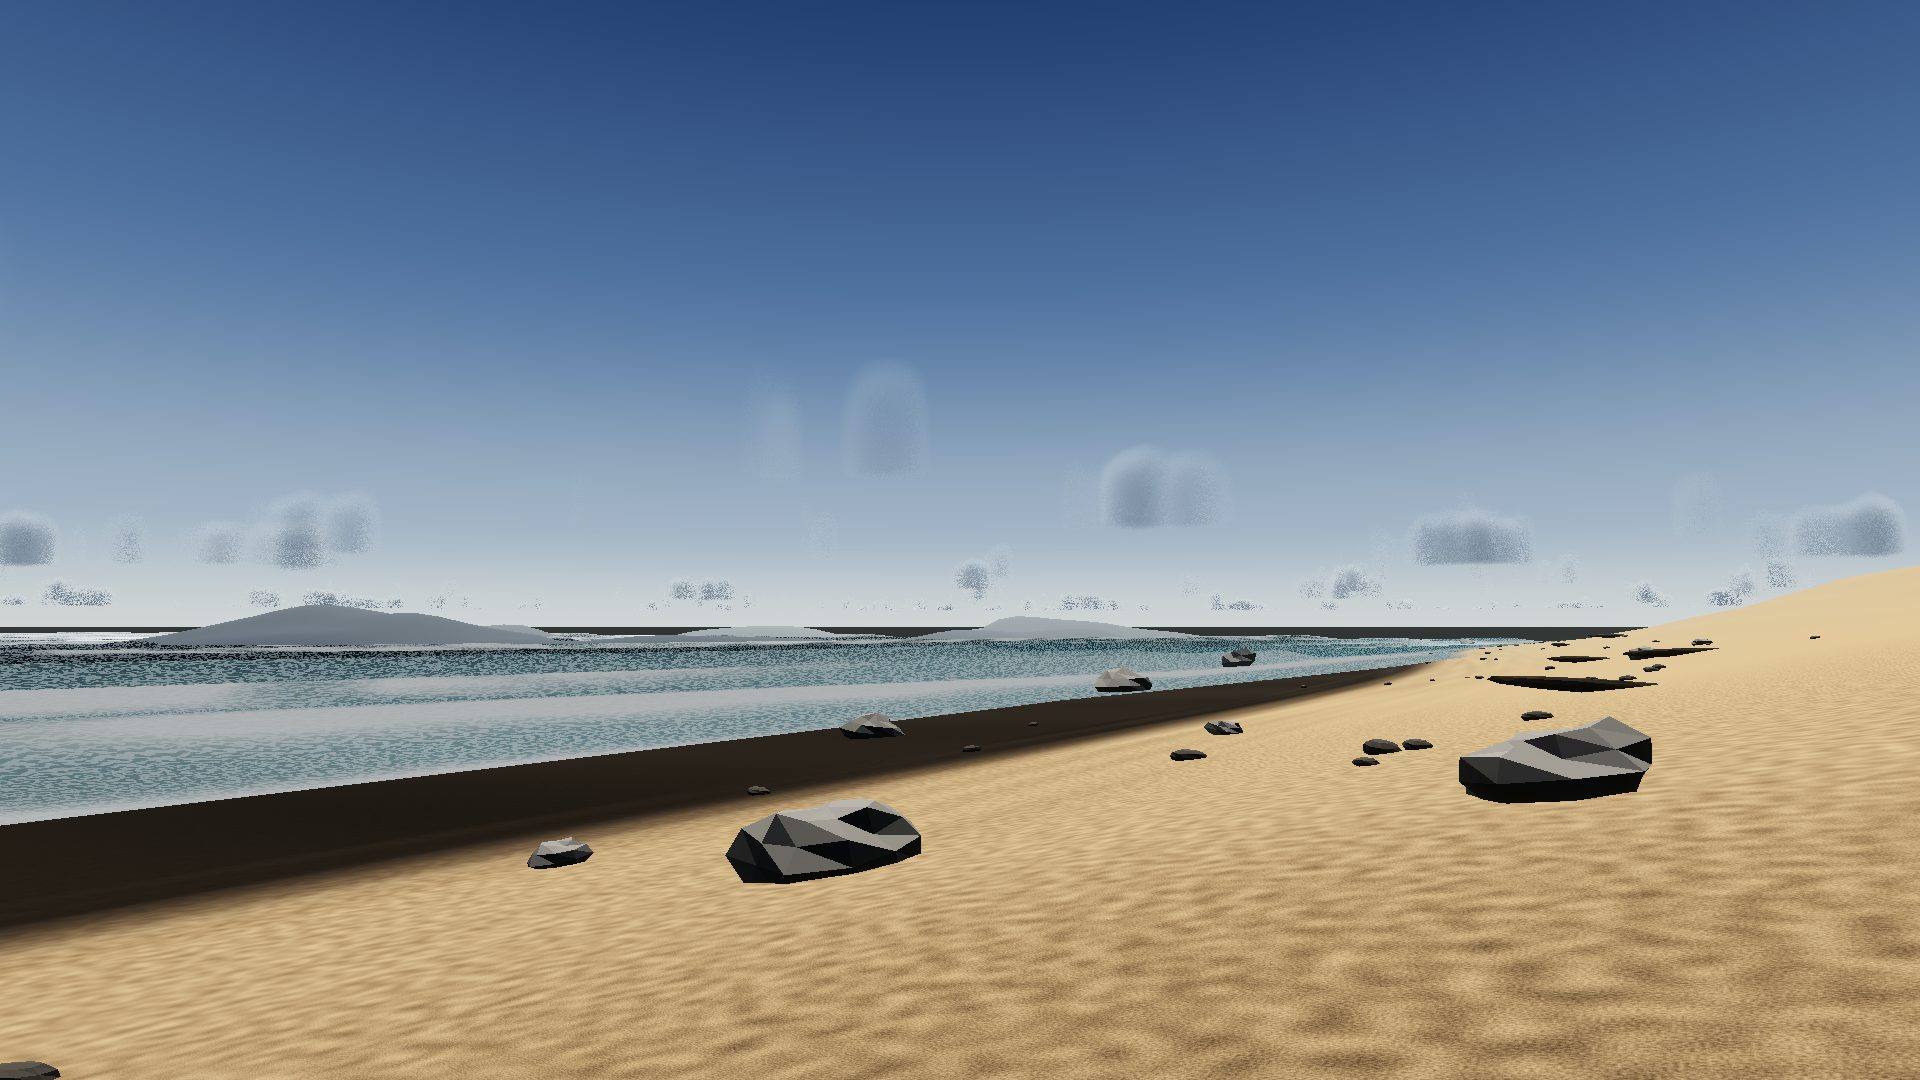
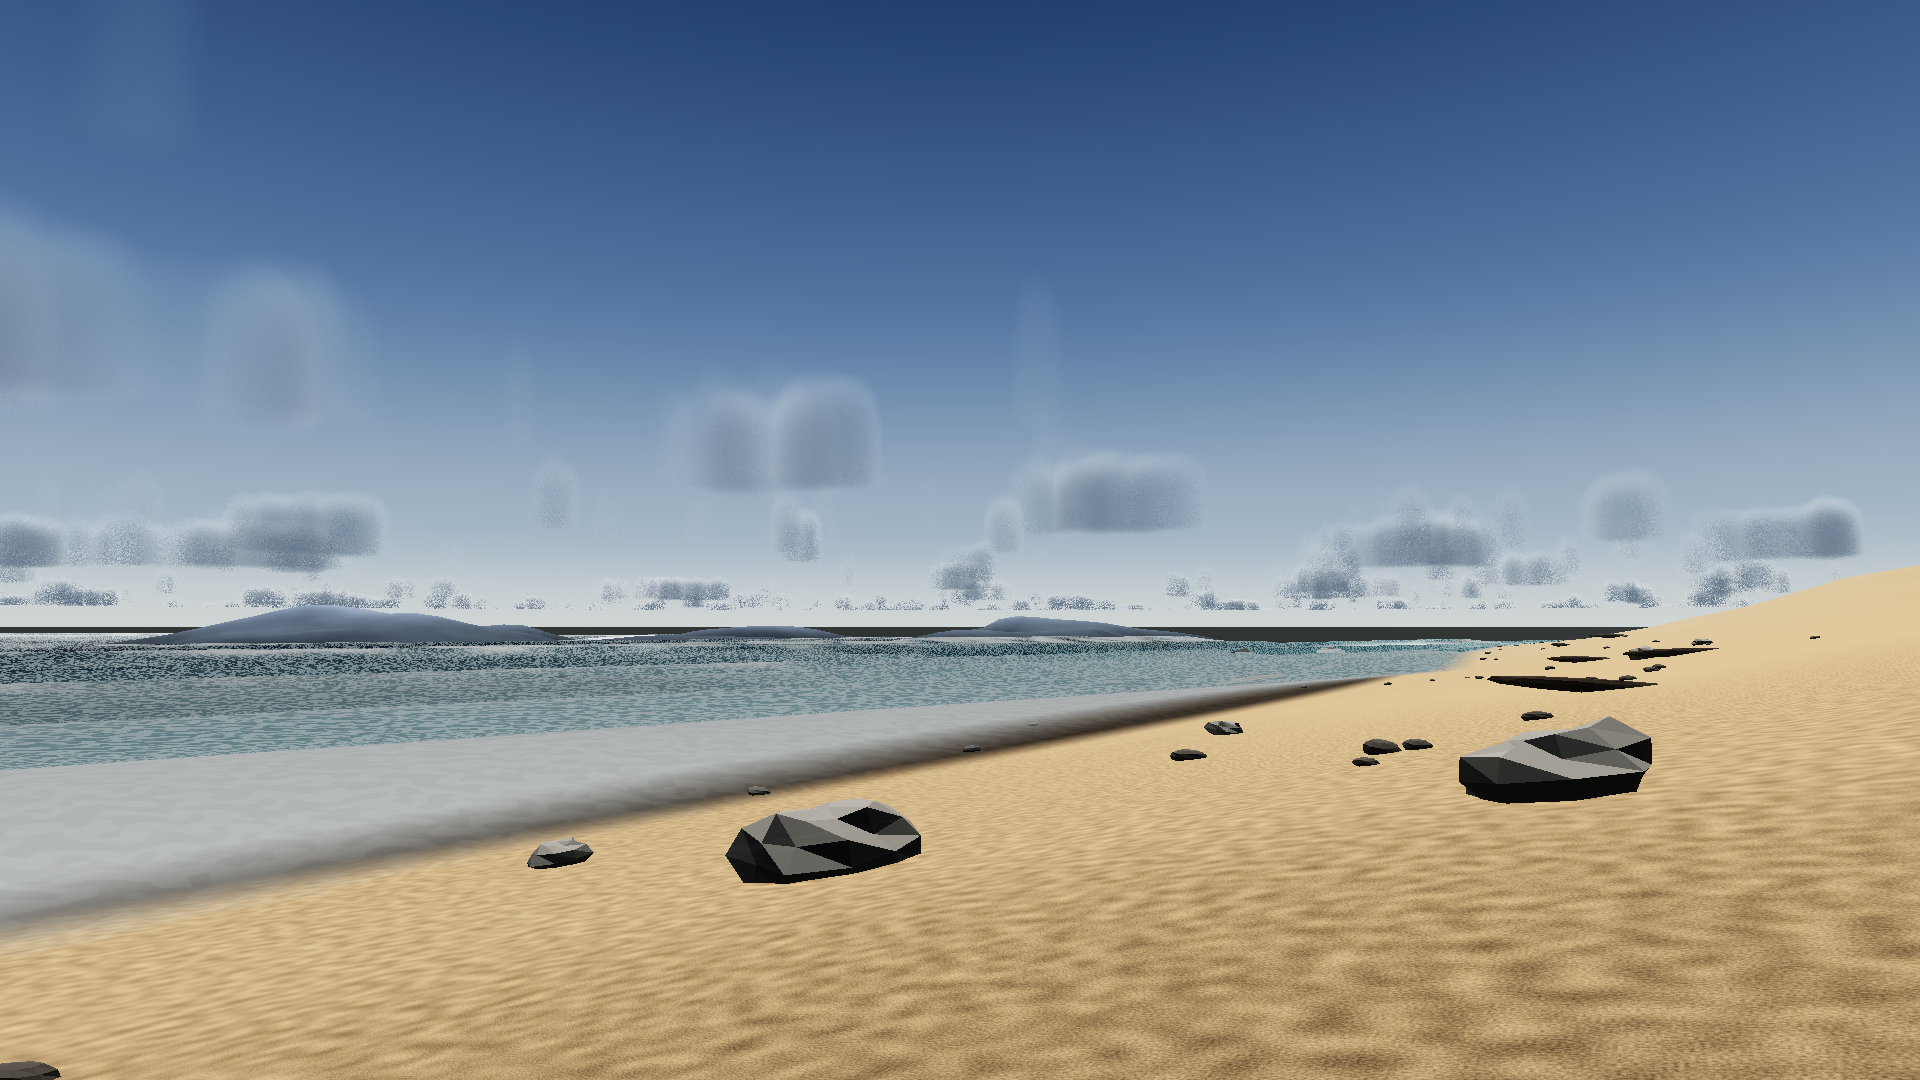
feat(R75-R76): Ocean 云/远山/沙滩三处修复. ①云步数 20->32: 云边缘梯度99分位 22.8->12.1(-47%), 硬边缘占比 0.12%->0; 云量 0.05->0.15(有效A/B差异9.68%) ②远山套 DistantLand 材质(高度渐变+斑驳+雾): 从平灰纸片变成有明暗的丘陵 ③沙滩 _RippleTint 0.22->0.05: 强斜条纹(像布纹)基本消失 ④Ocean 基线 140.4/41.2/89.1/近黑0.62 ⑤踩坑: 手改 .mat YAML 插入 _CloudSteps 会把 Islet 打爆成纯白(205) => 以后改材

diff --git a/Docs/学习路径与知识库/检测报告/R56_场景画质与采集口径.md b/Docs/学习路径与知识库/检测报告/R56_场景画质与采集口径.md
@@ -355,3 +355,23 @@ Islet 基线 127.9 / 54.4 / 104.1 / 5.84。
 既然参数有效，之前"云是矩形丝絮、调不动"的判断作废。
 真正的下一步是：**用可靠的 A/B 重新标定 `_CloudCover / _CloudBand / _CloudBaseDark` 三件套**，
 而不是继续怀疑参数没接线。
+
+---
+
+## R75–R76：Ocean 云、远山、沙滩（三处"假"的地方）
+
+| 项 | 前 | 后 | 依据 |
+| --- | --- | --- | --- |
+| **云** `_CloudSteps` | 20（边缘是**台阶状灰块**） | **32** | 有效 A/B：云边缘梯度 99 分位 **22.8 → 12.1**，硬边缘占比 0.12% → **0** |
+| 云量 `_CloudCover` | 0.05（几乎没云） | **0.15** | 有效 A/B（差异 9.68%），画面有适度云 |
+| **远山** | 平灰剪影（像纸片） | **`DistantLand` 材质**（高度渐变+斑驳+雾） | 有了明暗分面，读作丘陵 |
+| **沙滩** `_RippleTint` | 0.22（强斜条纹，像布纹） | **0.05** | 条纹基本消失，只剩细颗粒 |
+
+**关键教训（已进 AGENTS 第 22 条）**：这次 A/B 全部先比对"像素差占比"，
+`steps 20 vs 44` 差异 **5.44%**、`cover 0.05 vs 0.15` 差异 **9.68%** —— 都是真的换了帧。
+之前 R65/R72 得到的"云参数无效"是**采到同一帧**造成的假结论。
+
+**踩坑记录**：用"往 `.mat` YAML 里插一行 `_CloudSteps`"的方式改值，会把 Islet 画面**打爆成纯白**（亮度 205）。
+以后改材质一律走**菜单/SetFloat API**，不要手改 YAML 属性表。
+
+Ocean 基线更新：**140.4 / 41.2 / 89.1 / 近黑 0.62**。
